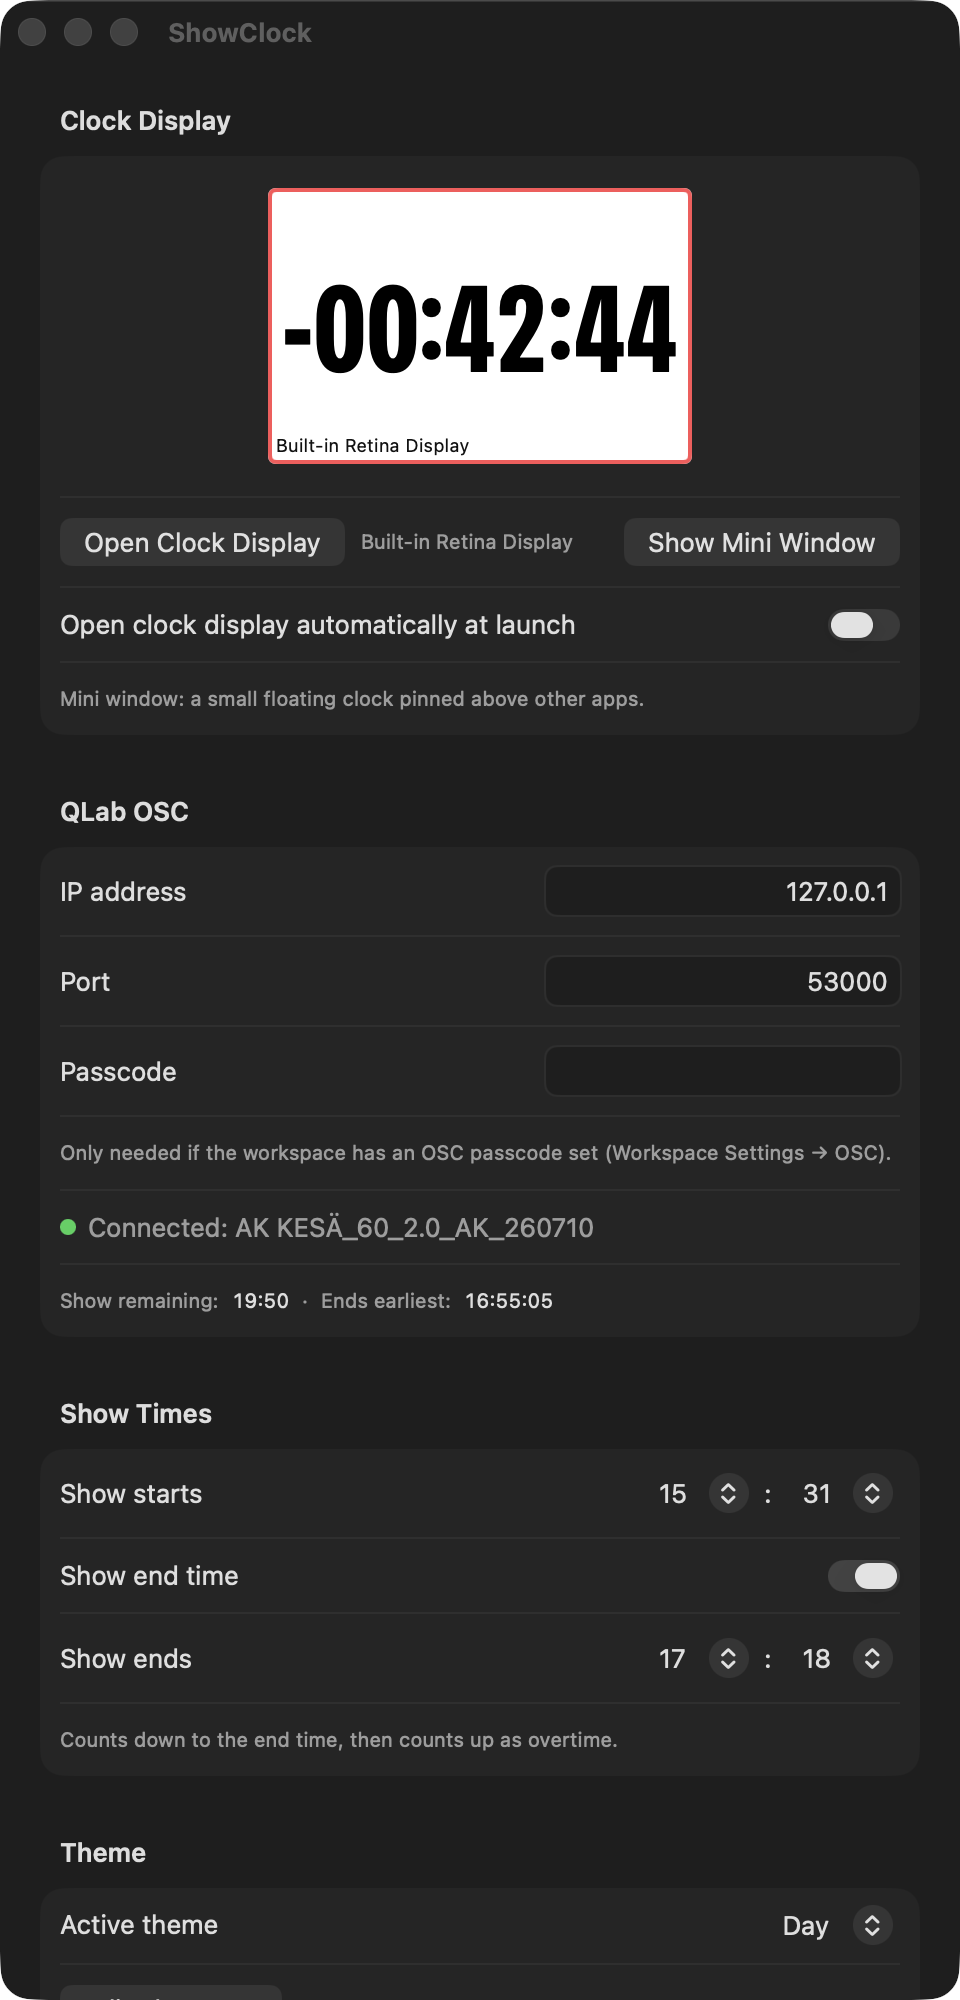
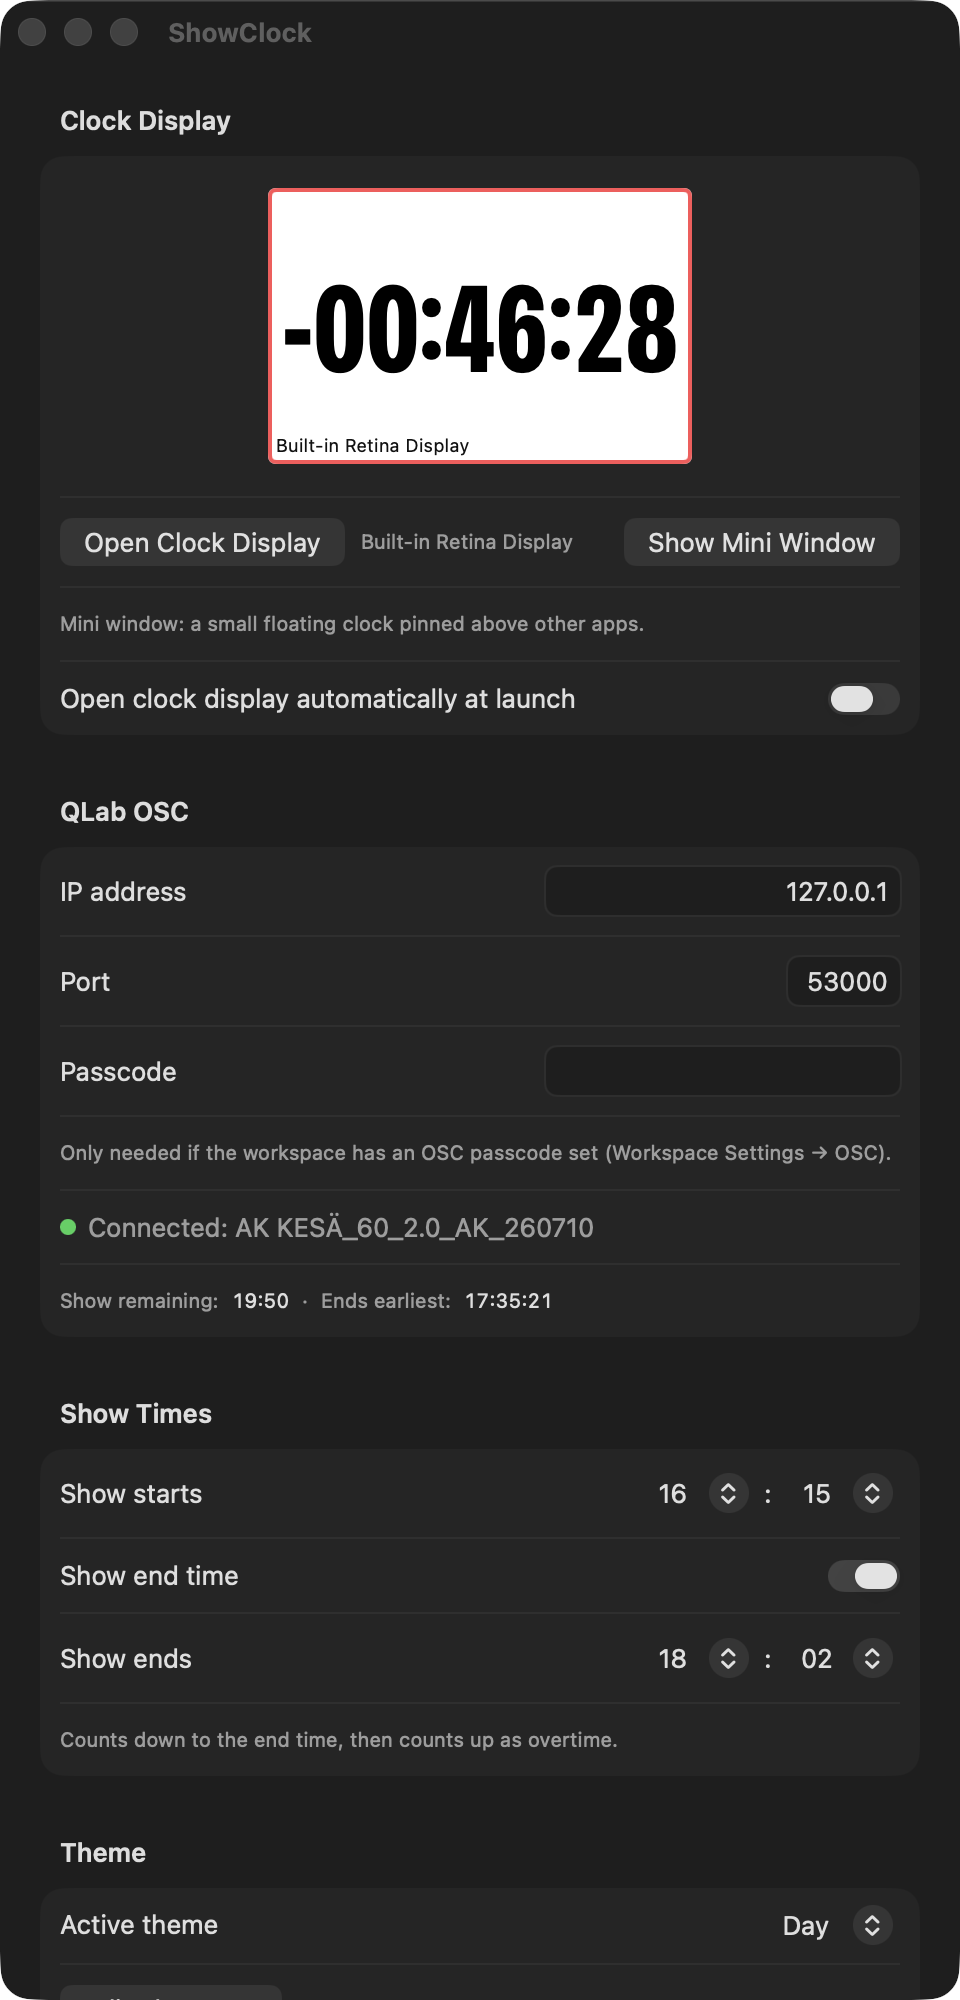
Tidy the Settings layout: caption placement and port field
The mini-window caption sat below the auto-open toggle, so it read as a
caption for the toggle — which is about the kiosk display and has nothing
to do with the mini window. It now sits directly under the row holding the
button it describes.

The port field stretched the full row width for a value that is at most
five digits, advertising space that can never be used and leaving the row
unbalanced against the address above it. Narrowed and right-aligned so its
trailing edge lines up with the other fields.

Claude-Session: https://claude.ai/code/session_01Q7MbnAwNDDNtDy4pWbSyjC

diff --git a/Sources/ShowClock/MainView.swift b/Sources/ShowClock/MainView.swift
@@ -68,11 +68,15 @@ struct MainView: View {
                     }
                 }
 
-                Toggle("Open clock display automatically at launch", isOn: $settings.autoOpenClockOnLaunch)
-
+                // Directly under the row it describes, not below the
+                // auto-open toggle: stranded there it read as a caption for
+                // the toggle, which is about the kiosk display and has
+                // nothing to do with the mini window.
                 Text("Mini window: a small floating clock pinned above other apps.")
                     .font(.caption)
                     .foregroundStyle(.secondary)
+
+                Toggle("Open clock display automatically at launch", isOn: $settings.autoOpenClockOnLaunch)
             }
 
             // MARK: QLab OSC
@@ -87,8 +91,14 @@ struct MainView: View {
                 HStack {
                     Text("Port")
                         .frame(width: 90, alignment: .leading)
+                    Spacer()
+                    // A port is at most five digits, so a full-width field
+                    // just advertised space that can never be used and made
+                    // the row look unbalanced next to the address above it.
                     TextField("", text: $portText)
                         .textFieldStyle(.roundedBorder)
+                        .multilineTextAlignment(.trailing)
+                        .frame(width: 76)
                         .focused($focusedField, equals: .port)
                         .onAppear { portText = String(settings.qlabPort) }
                         .onChange(of: portText) { _, v in
